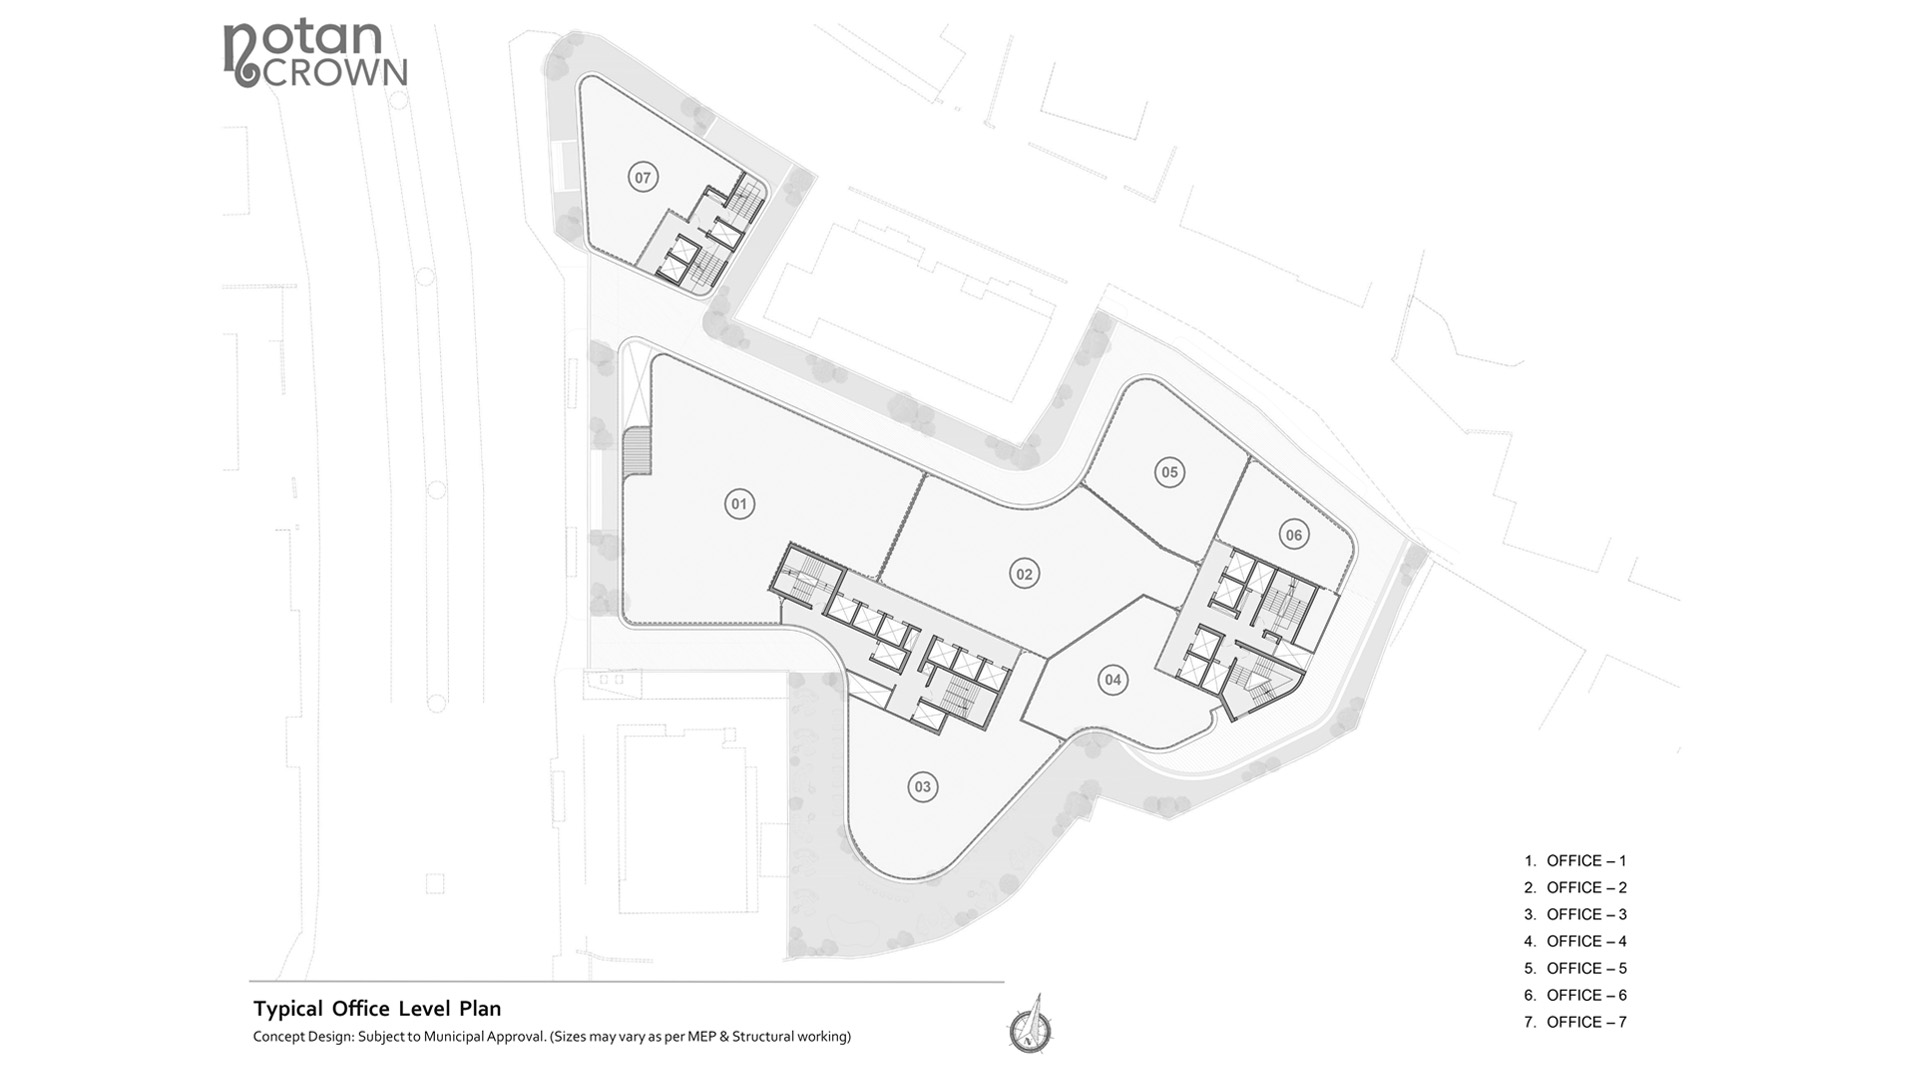
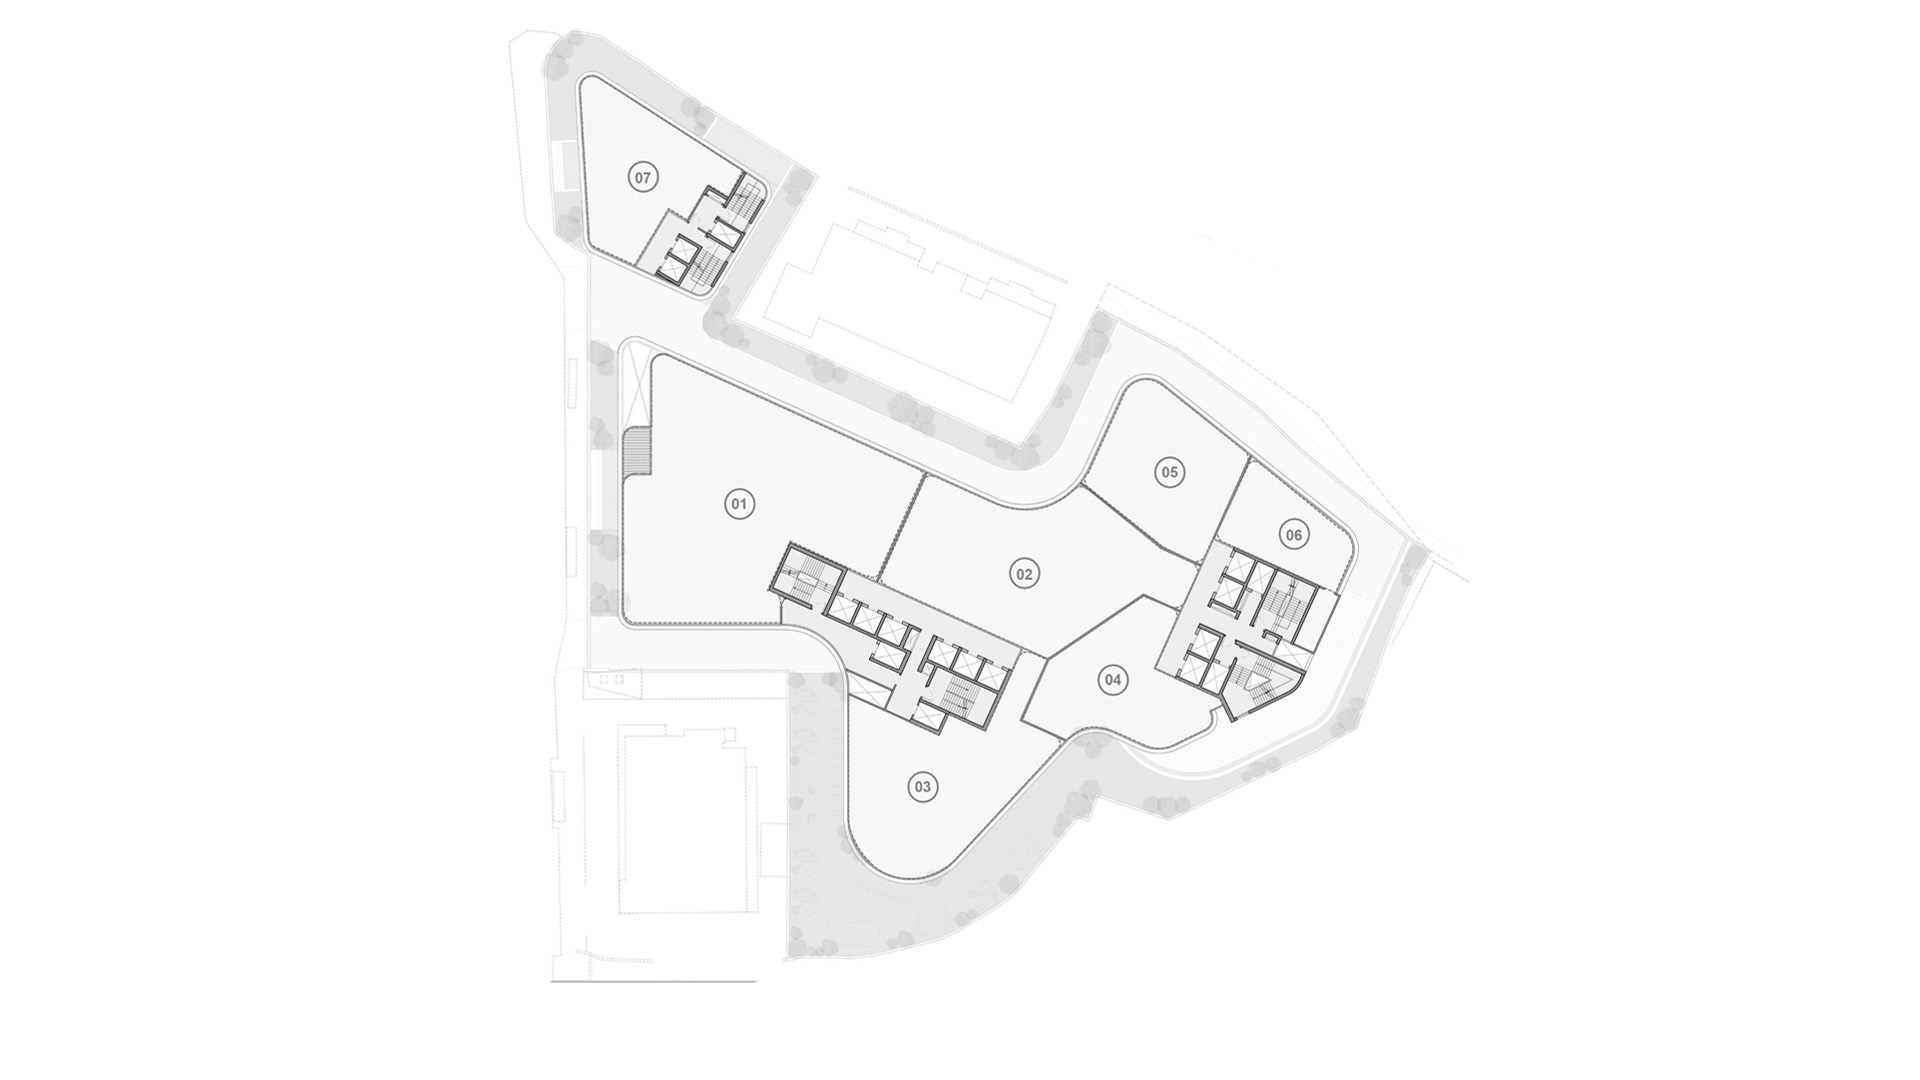
scrollbar hidden and crown fp updated

diff --git a/src/components/Building/PanoViewer.jsx b/src/components/Building/PanoViewer.jsx
@@ -351,7 +351,7 @@ const PanoViewer = ({
               <div
                 role="listbox"
                 aria-label="Floors"
-                className="custom-scrollbar absolute top-[calc(100%+10px)] left-0 z-30 max-h-[58vh] w-56 overflow-y-auto rounded-md border border-white/15 bg-[#0e1726]/95 p-1.5 shadow-[0_18px_40px_rgba(0,0,0,0.55)] backdrop-blur-md md:w-64"
+                className="no-scrollbar [scrollbar-width:none] [-ms-overflow-style:none] [&::-webkit-scrollbar]:hidden absolute top-[calc(100%+10px)] left-0 z-30 max-h-[58vh] w-56 overflow-y-auto rounded-md border border-white/15 bg-[#0e1726]/95 p-1.5 shadow-[0_18px_40px_rgba(0,0,0,0.55)] backdrop-blur-md md:w-64 "
               >
                 {orderedFloors.map((f) => {
                   const isCurrent = floor && f.num === floor.num;
@@ -534,7 +534,7 @@ const PanoViewer = ({
               {/* <span className="mx-1 hidden h-5 w-px bg-white/20 sm:block" /> */}
 
               {/* live angles — read these off to tune FLOOR_PANO_MAP */}
-              {/* <span className="hidden px-2 font-mono text-[11px] tracking-wide text-[#212C42] sm:inline">
+              <span className="hidden px-2 font-mono text-[11px] tracking-wide text-[#212C42] sm:inline">
                 yaw {Math.round(toDeg(angles.yaw))}° · pitch{" "}
                 {Math.round(toDeg(angles.pitch))}° · fov{" "}
                 {Math.round(toDeg(angles.fov))}°
@@ -544,7 +544,7 @@ const PanoViewer = ({
                 className="rounded-full px-3 py-1 text-xs tracking-wider uppercase transition-colors bg-white/15 hover:text-[#e8c879]"
               >
                 {copied ? "Copied!" : "Copy config"}
-              </button> */}
+              </button>
             </div>
           )}
         </>

diff --git a/src/index.css b/src/index.css
@@ -116,3 +116,13 @@ body {
 .custom-scrollbar::-webkit-scrollbar-thumb:hover {
   background: #e8c879;
 }
+
+/* Hide scrollbar for clean, minimal sidebars */
+.no-scrollbar::-webkit-scrollbar {
+  display: none;
+}
+.no-scrollbar {
+  -ms-overflow-style: none;
+  scrollbar-width: none;
+}
+
